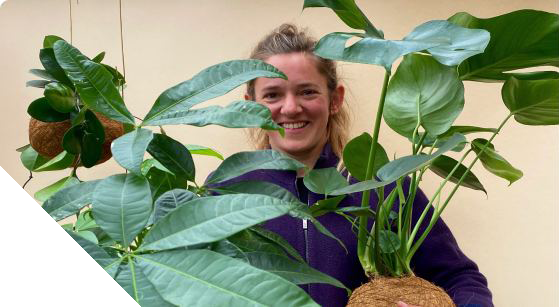
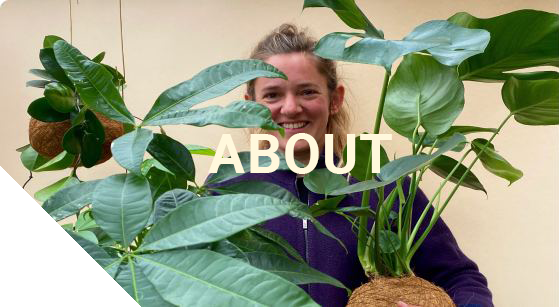
add About page

Changed region(s): [[0.3649, 0.4104, 0.6995, 0.5863]]

diff --git a/src/Components/SpacesPage/Spaces.tsx b/src/Components/SpacesPage/Spaces.tsx
@@ -18,50 +18,58 @@ let Spaces = () => {
           </p>
         </div>
       </div>
+      
       <div>
         <div className={s.FrontImage}>
           <img src='/Img/Spaces/Spaces.png'/>
+          
         </div>
-        <div>
-          <div>
-            <b>FREE SHIPPING IN DK</b>
+        <div className={s.coupleWrapper}>
+          <div className={s.coupleDescription}>
+            <p className={s.coupleTitle}>FREE SHIPPING IN DK</p>
             <p>
               We are shipping all around Europe within 1-10 working days. Shipping in all of  Denmark with GLS is free and we have a flat rate of 120kr for the rest of Europe with UPS.
             </p>
           </div>
-          <div>
-            <b>GREEN CARE</b>
+          <div className={s.coupleDescription}>
+            <p className={s.coupleTitle}>GREEN CARE</p>
             <p>
               We handle all our handmade Planteplaneter carefully. If you have any questions or concerns we are here to help. Please send an email to info@kajaskytte.dk and we will get back to you as quickly as possible.
-
             </p>
           </div>
         </div>
       </div>
-      <div>
-        <img src='/Img/Spaces/kaja.png'/>
-        <b>KAJA SKYTTE</b>
+      <div className={s.Kaja}>
         <div>
+        <div className={s.KajaTitle}>
+          <b>KAJA SKYTTE</b>
+        </div>
+        <div className={s.KajaText}>
           The Danish architect Kaja Skytte works in the field of interior design with a special focus on materials and the interaction with space.
           She works in a variety of materials and has developed such diverse products as planteplaneter, wall structures, stone sculptures, mobiles and furniture.
           In 2015, Kaja founded her own company, where she among other things, produces and sells the plant planets – a freely suspended decorative houseplant, inspired by an old Japanese method.
           Kaja has recently been nominated to Danish Design Award in September 2016. In 2013, she was nominated to RIBA Presidents Silvermedal.
           Kaja Skytte lives and works in Copenhagen, Denmark, where she has her own studio in Vesterbro.
         </div>
+        </div>
+        <div className={s.KajaImg}>
+          <img src='/Img/Spaces/kaja.png'/>
+        </div>
+     
       </div>
-      <div>
-        <div>
+      <div className={s.makers}>
+        <div className={s.maker}>
           <img src='/Img/Spaces/cecilie.png'/>
-          <b>CECILIE</b>
-          <b>
+          <p>CECILIE</p>
+          <p>
             PLANTEPLANET MAKER AND 
             WEBDIRECTOR
-          </b>
+          </p>
         </div>
-        <div>
+        <div className={s.maker}>
           <img src='/Img/Spaces/natalie.png'/>
-          <b>NATALIE</b>
-          <b>PLANTEPLANET MAKER</b>
+          <p>NATALIE</p>
+          <p>PLANTEPLANET MAKER</p>
         </div>
       </div>
     </div>

diff --git a/src/Components/AboutPage/AboutPage.tsx b/src/Components/AboutPage/AboutPage.tsx
@@ -1,0 +1,54 @@
+import s from './AboutPage.module.scss';
+
+let About = () => {
+  return (
+    <div>
+      <div className={s.SpacesHead}>
+        <div className={s.HeadImg}>
+          <img src="/Img/About/1_About.png"/>
+        </div>
+        
+        <div className={s.headDesc}>
+          <div className={s.title}>
+            <b>S</b>
+            <b>PACES</b>  
+          </div>
+          <p>
+            Sometimes planeteplanter are treated as plants other times they’re a part of interior design, see both cases in action.
+          </p>
+          <p>
+          We worked with many different spaces such as hotels and barbershops.Planteplaneter can be a finishing touch not only in your house, but also in your office or your bussiness, if you are a company interested in bulk order, contact me.
+          </p>
+        </div>
+        
+      </div>
+      <div className={s.unit}>
+      <p >INTERIOR</p>
+      </div>
+      
+      <div className={s.cartWrapper}>
+          <div className={s.text}>
+            <p className={s.title}>Ruberg Jewellery London</p>
+            <p className={s.description}>An installation at Ruberg featuring work by Danish architect Kaja Skytte. Skytte will show her intricate Wallstructures and sculptural Planteplaneter – Japanese-inspired plant suspension systems.</p>
+            <p>London Design Festival 2016</p>
+          </div>
+          <div className={s.unitImage}>
+            <img src="/Img/About/2_About.png"/>
+          </div>
+      </div>
+      <div className={s.cartWrapper}>
+          <div className={s.text}>
+            <p className={s.title}>LAB Showroom</p>
+            <p className={s.description}>
+                Mega Planteplaneter at The Lab creating a green space in a design office environment.
+            </p>
+            <p></p>
+          </div>
+          <div className={s.unitImage}>
+            <img src="/Img/About/3_About.png"/>
+          </div>
+        </div>
+    </div>
+  )
+}
+export default About

diff --git a/src/Components/SpacesPage/Spaces.module.scss b/src/Components/SpacesPage/Spaces.module.scss
@@ -32,14 +32,104 @@
 }
 
 .FrontImage{
-  margin-top:30px;
-  position: relative;
-  padding-top: 56.25%; 
-  padding: 0 auto;
+  position:absolute;
+  
   img{
-    position: absolute;
-    left: 0;
-    top: 0;
-    width: 100%;
-    height: auto;}
+    
+    width:100%}
+}
+
+.coupleWrapper{
+  
+  display:flex;
+  
+  position:relative;
+  z-index: 2;
+  
+  margin:0 auto;
+}
+.coupleDescription{
+  margin-top:10%;
+  
+  max-width: 377.11px;
+max-height: 296.89px;
+  width: 25vw;
+  height: 20vw;
+background: rgba(255, 255, 255, 0.9);
+border-radius: 21px;
+&:first-of-type{
+  margin-left: 17%;
+  margin-right: 13%;
+}
+
+  .coupleTitle{
+    margin:7% 10% 5%;
+    font-weight: 600;
+    text-align:center;
+    font-size:1.7vw;
+  }
+  p{
+    font-family: 'Poppins';
+    margin:0 8% 10%;
+    font-size: calc(0.70em + 0.3vw);
+    text-align: center;
+    line-height:1.5vw;
+  }
+}
+.Kaja{
+  display:flex;
+}
+.KajaText{
+  position: relative;
+  z-index: 2;
+  width: 38vw;
+  height: 28vw;
+  background: rgba(255, 255, 255, 0.9);
+  box-shadow: 4px 4px 8px rgba(0, 0, 0, 0.12);
+  border-radius: 15px;
+  font-size: 1.6vw;
+  padding:23px 67px;
+  left:15%;
+}
+.KajaImg{
+  max-width:40vw;
+  position: relative;
+  margin:15% 0 197px auto;
+  right:13%;
+  img{
+    width:43vw
+  }
+}
+.KajaTitle{
+  position: relative;
+  z-index: 2;
+  margin-top: 55%;
+  left:25%;
+  b{
+    z-index: 3;
+    font-size: 4vw;
+    font-family: 'Poppins';
+    text-shadow: 0px 0px 14px rgb(255, 255, 255);
+    weight: bold;
+    
+  }
+  
+}
+.makers{
+  max-width:1062px;
+  display:flex;
+  justify-content:space-between;
+  margin:0 auto 300px;
+  .maker{
+    p{
+      text-align: center;
+      font-size: 24px;
+      width: 333px;
+      margin-top:20px;
+      margin-left: 35px;
+      &:first-of-type{
+        font-size: 48px;
+      }
+    }
+  }
 }

diff --git a/src/Components/AboutPage/AboutPage.module.scss b/src/Components/AboutPage/AboutPage.module.scss
@@ -1,0 +1,80 @@
+.SpacesHead{
+  display:flex;
+  
+  .HeadImg{
+    margin:21px 0 208px auto;
+    min-width: 300px;
+    img{
+      margin-left:40px;
+      width: 34vw;
+      min-width: 300px;
+    }
+    
+  }
+  .headDesc{
+    margin-bottom:200px;
+    margin-right:auto;
+    margin-top:10%;
+    .title{
+      margin-left: -50px;
+      margin-bottom: 50px;
+      b{
+        font-size: 77px;
+        &:first-of-type{
+          color:white;
+        }
+      }
+      
+    }
+    p{
+      font-family: Poppins;
+      &:first-of-type{
+        max-width: 545px;
+        margin:0 42px 0 42px;
+        font-family: Poppins;
+        font-size: 24px;
+        font-weight: 600;
+      }
+      &:last-of-type{
+       max-width: 490px;
+        font-size: 19px;
+        font-weight: 275;
+        margin:10px 0 0 42px;
+      }
+    }
+  }
+}
+.unit{
+  font-size: 60px;
+  margin:-130px 0 40px 100px;
+}
+.cartWrapper{
+  display:flex;
+  justify-content:space-between;
+  
+  .unitImage{
+    margin-left: 20px;
+    img{
+      width:35vw;
+      margin-right:102px;
+    }
+  }
+  .title{
+    margin-top:100px;
+    
+    font-size:36px;
+    weight: bold;
+  }
+  .text{
+    margin-left: 127px;
+    max-width: 597px;
+    max-height: 234px;
+  }
+  .description{
+    margin-top: 20px;
+    font-size: 20px;
+  }
+  p:last-of-type{
+    font-family: Poppins;
+  }
+}

diff --git a/src/App.js b/src/App.js
@@ -9,6 +9,7 @@ import ShopPage from './Components/ShopPage/ShopPage.jsx';
 import Workshops from './Components/WorkshopsPage/Workshop.tsx'
 import ShoppingCard from './Components/ShoppingCard/ShoppingCard.tsx';
 import Spaces from './Components/SpacesPage/Spaces.tsx';
+import About from './Components/AboutPage/AboutPage.tsx'
 function App() {
   let [counter, setCounter] = useState(1)
   return (
@@ -19,6 +20,7 @@ function App() {
         <Route path="/" element={<HomePage/>}/>
         <Route path="/Shopping_card" element={<ShoppingCard counter={counter} changeCounter={setCounter}/>}/>
         <Route path='/Spaces' element={<Spaces/>}/>
+        <Route path='/About' element={<About/>}/>
         <Route path='/Shop' element={<ShopPage/>}/>
         <Route path='/Workshops' element={<Workshops/>}/>
         <Route path='/Products/:id' element={<Product counter={counter} changeCounter={setCounter}/>}/>
